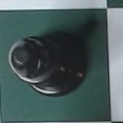
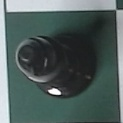
finished collecting training data for black bishop

diff --git a/brain.py b/brain.py
@@ -212,7 +212,7 @@ def main():
                     square.saveImage(squares)
                 return
                 '''
-                collect2PData(board, squares, 62, 63, "white", "bishop", 8, 7)
+                collect2PData(board, squares, 62, 63, "black", "bishop", 8, 7)
                 #collectData(board, squares)
                 cv2.imshow("Frame", squares[22:136, 517:640])
                 if cv2.waitKey(1) & 0xFF == ord('q'):
